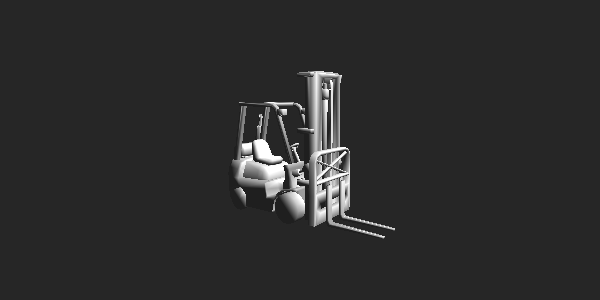
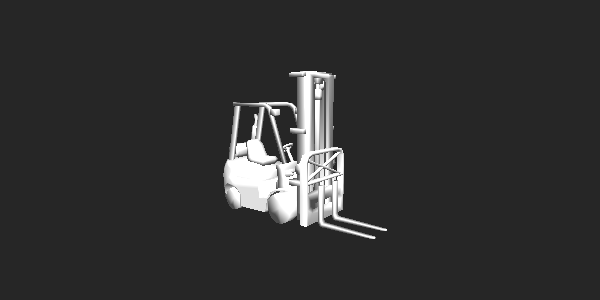
refactor : prefab, content, meta 정상화

Changed region(s): [[0.36, 0.21, 0.66, 0.81]]

diff --git a/Editor/Private/Content_Browser.cpp b/Editor/Private/Content_Browser.cpp
@@ -200,6 +200,19 @@ void Content_Browser::Scan_Folder(const wstring& path, FFolderNode& node)
 
 void Content_Browser::Draw_FolderTree(FFolderNode& node)
 {
+    if (strlen(_searchBuffer) > 0 && _currentFolder != &node)
+    {
+        string searchLower = _searchBuffer;
+        transform(searchLower.begin(), searchLower.end(), searchLower.begin(), ::tolower);
+
+        if (node.fullPath != _rootFolder.fullPath && !IsFolderMatchingSearch(node, searchLower))
+            return;
+
+        // 검색어가 포함된 폴더 경로라면 보기 편하게 트리를 강제로 펼쳐둠
+        ImGui::SetNextItemOpen(true, ImGuiCond_Once);
+    }
+
+
     ImGuiTreeNodeFlags flags = ImGuiTreeNodeFlags_SpanAvailWidth | ImGuiTreeNodeFlags_OpenOnDoubleClick;
 
     if (_currentFolder == &node)
@@ -281,6 +294,7 @@ void Content_Browser::Draw_AssetView()
             bool isValidPrefab = pathStr.ends_with(".prefab.json");
             bool isBehaviorTree = pathStr.ends_with(".bt.json");
             bool isMeshFile = (extension == ".fbx" || extension == ".FBX");
+
 
             // 아이콘
             ImGui::PushID(fileName.c_str());
@@ -681,6 +695,22 @@ void Content_Browser::Expand_PathTo(const wstring& targetPath)
     }
 
     _expandedFolders.insert(root.wstring());
+}
+
+bool Content_Browser::IsFolderMatchingSearch(const Content_Browser::FFolderNode& node, const string& searchStr)
+{
+    string nameLower = Utils::ToString(node.name);
+    transform(nameLower.begin(), nameLower.end(), nameLower.begin(), ::tolower);
+
+    if (nameLower.find(searchStr) != string::npos)
+        return true;
+
+    for (const auto& child : node.subFolders)
+    {
+        if (IsFolderMatchingSearch(child, searchStr))
+            return true;
+    }
+    return false;
 }
 
 void Content_Browser::Load_Thumbnail(const string& guid)

diff --git a/Editor/Private/Prefab_View.cpp b/Editor/Private/Prefab_View.cpp
@@ -248,7 +248,8 @@ void Prefab_View::Draw_Header()
 
 void Prefab_View::Draw_ComponentList()
 {
-    CHECK_NULL(_targetObject);
+    if (!_targetObject)
+        return;
 
 #pragma region Legacy : Inspector 방식으로 보여주기
     //Inspector::Draw_Components(_targetObject);
@@ -380,15 +381,19 @@ void Prefab_View::Draw_Buttons()
                 }
                 
             }
+
+            EDITOR->Get_Notification()->Add_Notification("Capture Thumbnail: {}", _prefabName);
         }
     }
 }
 
 void Prefab_View::Update_ImGuizmo()
 {
+    if (!_targetObject)
+        return;
+
     auto transform = _targetObject->Get_Component<Transform>();
-    if (
-        transform && _gizmoOperation != (ImGuizmo::OPERATION)0)
+    if (transform && _gizmoOperation != (ImGuizmo::OPERATION)0)
     {
         ImGuizmo::SetOrthographic(false);
         ImGuizmo::SetDrawlist();

diff --git a/Editor/Private/Editor_Manager.cpp b/Editor/Private/Editor_Manager.cpp
@@ -63,6 +63,13 @@ void Editor_Manager::Update(float timeDelta)
 
 void Editor_Manager::Render()
 {
+    static bool firstFrameCheck = true;
+    if (firstFrameCheck)
+    {
+        ImGui::SetWindowFocus("Game");
+        firstFrameCheck = false;
+    }
+
     Shared<RenderTarget> targetRT = nullptr;
 
     if (GAME->Get_GameState() == EGameState::Play)

diff --git a/Editor/Public/Content_Browser.h b/Editor/Public/Content_Browser.h
@@ -59,6 +59,8 @@ private:
     FFolderNode* Find_FolderNode(FFolderNode& node, const wstring& path);
     void Expand_PathTo(const wstring& targetPath);
 
+    static bool IsFolderMatchingSearch(const Content_Browser::FFolderNode& node, const string& searchStr);
+
 private:
     FFolderNode _rootFolder;
     FFolderNode* _currentFolder = { nullptr };

diff --git a/Engine/Private/Asset_Manager.cpp b/Engine/Private/Asset_Manager.cpp
@@ -229,7 +229,7 @@ bool Asset_Manager::Load_Meta(const wstring& metaPath)
 
     catch (const exception& e)
     {
-        LOG_ERROR("Failed to parse meta: {}", e.what());
+        //LOG_ERROR("Failed to parse meta: {}", e.what());
         return false;
     }
 }
